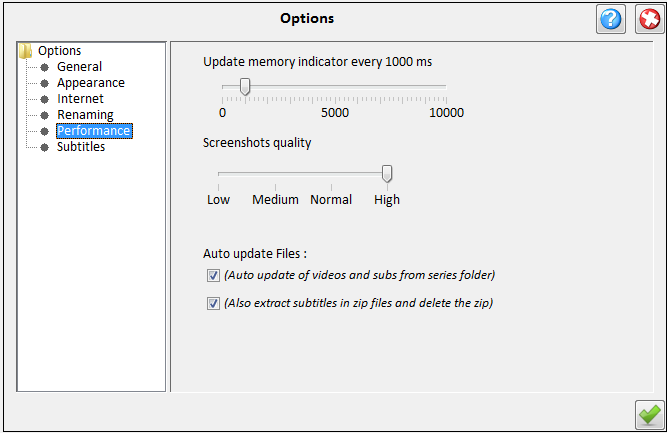
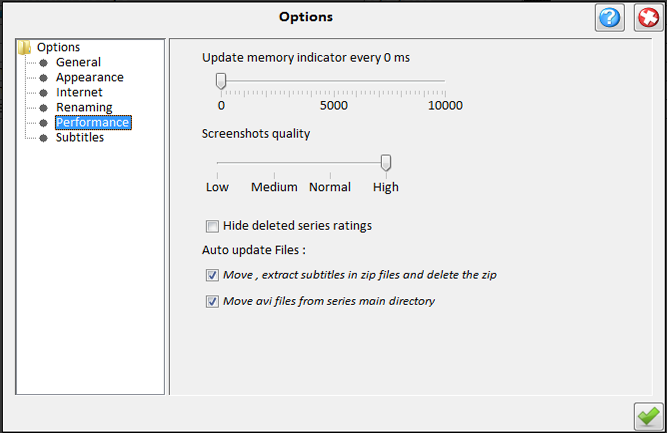
Version 1.6.2

diff --git a/src/help/html/performance_options.html b/src/help/html/performance_options.html
@@ -15,12 +15,12 @@
           The quality of the series screenshots on the main application panel and on the schedule.
         </li>
         <li>
-          <b>Auto Update</b> - Files : <br />
-          Auto update video and subtitle status from series directories each time you
-          select a series.<br />
-          <b>Auto Update</b> - Extract : <br />
-          Auto extract archived subtitles (zip, rar,7z,gzip and tar extension).This will 
-          delete the zip file after the extraction.
+          <b>Hide deleted series rating:</b><br />
+          When viewing the ratings tab only the active series stats will show.
+        </li>
+        <li>
+          <b>Auto Update Files: </b><br />
+          Whether to move subtitles and video files from the main series directory or not
         </li>
       </ul>
     </td></tr>

diff --git a/src/myseriesproject/MySeries.java b/src/myseriesproject/MySeries.java
@@ -126,8 +126,8 @@ public class MySeries extends javax.swing.JFrame implements TableModelListener, 
   public MyEpisodesTableModel tableModel_episodes;
   private MyFilteredSeriesTableModel tableModel_filterSeries;
   public ComboBoxModel comboBoxModel_filters;
-  public static String version = "1.6.1(r907)";
-  public String date = "2012-03-31";
+  public static String version = "1.6.2(r918)";
+  public String date = "2012-04-29";
   public static MyDisabledGlassPane glassPane = new MyDisabledGlassPane();
   public static final long serialVersionUID = 234563636363L;
   public MyImagePanel imagePanel = new MyImagePanel(true);
